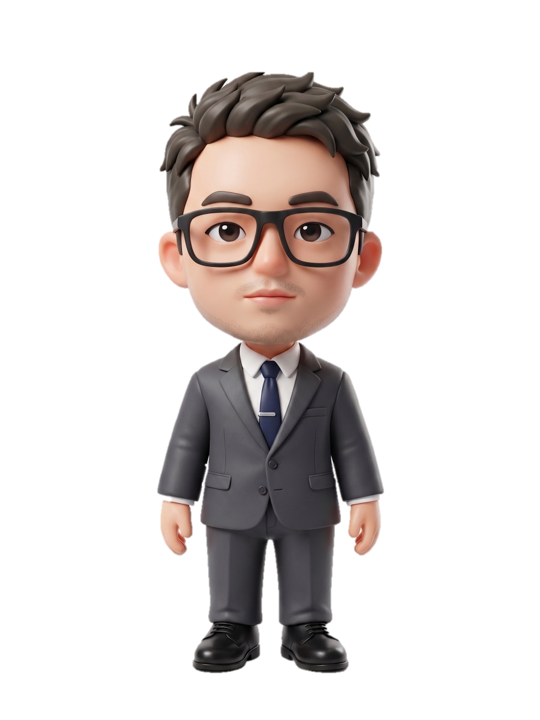
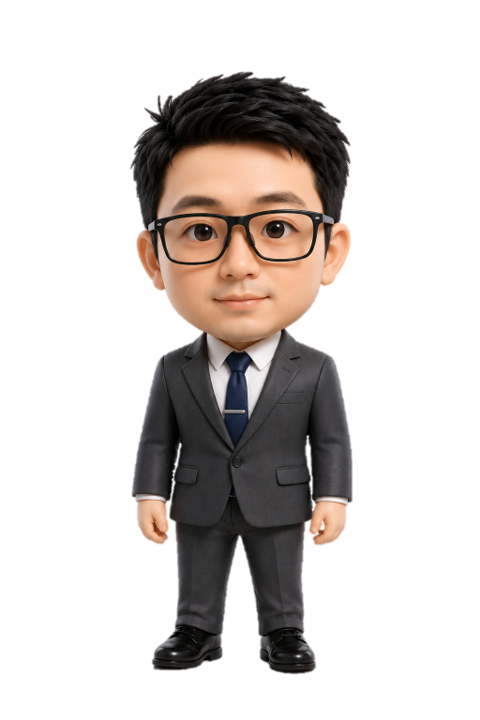
更新IP角色圖像並改為半身主播台樣式:換上使用者提供的最新Q版公仔去背圖,IP區塊改成半身+發光主播台橫桿+LIVE標籤,調整版面下邊距避免與內容重疊

Changed region(s): [[0.25, 0.0917, 0.75, 0.9472]]

diff --git a/index.html b/index.html
@@ -142,7 +142,7 @@ body{
   flex-direction:column;
   justify-content:center;
   align-items:stretch;
-  padding: clamp(20px,4vw,72px) clamp(20px,6vw,110px) clamp(76px,8vw,100px);
+  padding: clamp(20px,4vw,72px) clamp(20px,6vw,110px) clamp(230px,23vw,300px);
   opacity:0;
   overflow-y:auto;
   -webkit-overflow-scrolling:touch;
@@ -227,22 +227,38 @@ h2.slide-title{ font-size:clamp(2.2rem,4.6vw,3.4rem); line-height:1.2; font-weig
 
 /* 全頁固定出現的IP角色——主播鏡頭圈(picture-in-picture)樣式，安靜地待在角落 */
 .awen-guide{
-  position:fixed; left:16px; bottom:76px; z-index:16;
-  width:clamp(64px,9vw,92px); height:clamp(64px,9vw,92px);
-  border-radius:50%; overflow:hidden;
-  border:2.5px solid var(--blue);
-  box-shadow:0 0 16px rgba(57,200,255,.4);
-  background:#0a0d15;
+  position:fixed; left:14px; bottom:76px; z-index:16;
+  width:clamp(120px,15vw,168px); height:clamp(98px,12.5vw,140px);
+  border-radius:14px 14px 4px 4px; overflow:hidden;
+  border:2px solid var(--blue);
+  box-shadow:0 0 18px rgba(57,200,255,.4);
+  background:linear-gradient(180deg, rgba(20,26,38,.5), rgba(6,8,13,.7));
   pointer-events:none;
 }
 .awen-guide img{
-  position:absolute; top:50%; left:50%;
-  width:190%; height:190%; max-width:none;
-  object-fit:cover; object-position:center 12%;
-  transform:translate(-50%,-42%);
+  position:absolute; top:0; left:50%; width:104%; height:100%;
+  max-width:none; object-fit:cover; object-position:center 0%;
+  transform:translateX(-50%);
+}
+.awen-guide .desk-tag{
+  position:absolute; left:6px; top:6px; z-index:2;
+  font-size:.58rem; font-weight:800; letter-spacing:.06em;
+  color:#fff; background:var(--alert);
+  padding:2px 7px; border-radius:4px;
+}
+.awen-guide .desk-bar{
+  position:absolute; left:0; right:0; bottom:0; height:30%; z-index:1;
+  background:linear-gradient(180deg, rgba(57,200,255,.10), rgba(57,200,255,.34));
+  border-top:2px solid var(--blue);
+  box-shadow:0 -6px 16px rgba(57,200,255,.25) inset;
+}
+.awen-guide .desk-bar::after{
+  content:''; position:absolute; left:8%; right:8%; top:4px; height:1px;
+  background:rgba(255,255,255,.35);
 }
 @media (max-width:600px){
-  .awen-guide{ left:10px; bottom:66px; width:52px; height:52px; }
+  .awen-guide{ left:10px; bottom:66px; width:104px; height:88px; }
+  .awen-guide .desk-tag{ font-size:.5rem; padding:1px 6px; }
   .slide{ padding-left:14px; padding-bottom:130px; }
 }
 #fs-btn{
@@ -309,7 +325,9 @@ h2.slide-title{ font-size:clamp(2.2rem,4.6vw,3.4rem); line-height:1.2; font-weig
 <div class="bg-stars"></div>
 
 <div class="awen-guide">
-  <img class="awen" src="assets/awen_neon.png" alt="總務處代言角色 A-WEN，正在介紹本頁內容">
+  <img class="awen" src="assets/awen_neon.png" alt="總務處代言角色 A-WEN，正在主播台介紹本頁內容">
+  <div class="desk-tag">總務處 LIVE</div>
+  <div class="desk-bar"></div>
 </div>
 
 <div id="progress-track"><div id="progress-bar"></div></div>
